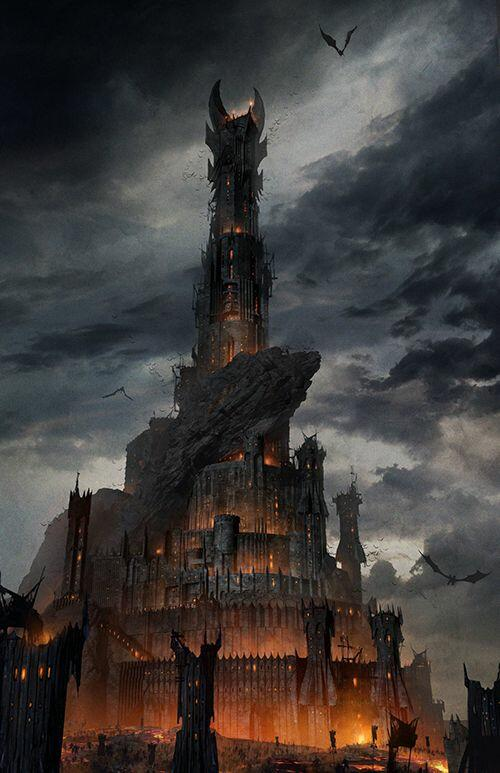
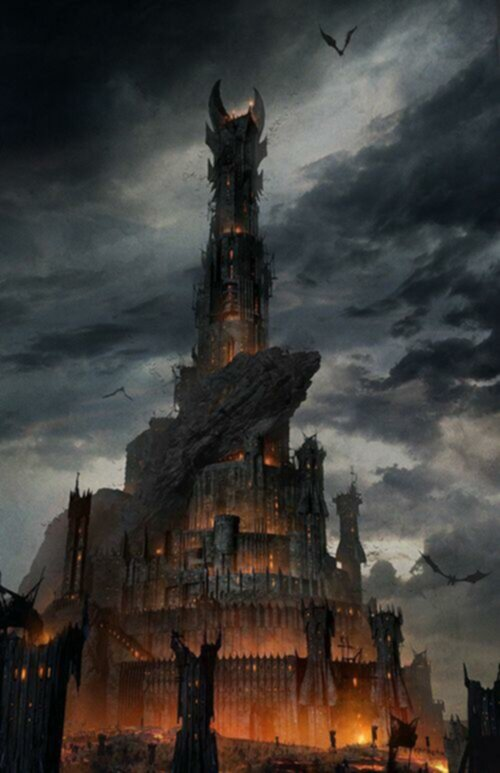
compressing images

diff --git a/index.html b/index.html
@@ -67,7 +67,7 @@
             <div class="destination-list">
                 <div class="box">
                     <div class="image-box">
-                        <img src="images/rivendell.png" alt="rivendell" class="fit-background">
+                        <img src="images/rivendell.jpg" alt="rivendell" class="fit-background">
                     </div>
                     <div class="info">
                         <h2>Imladris<br><span>Rivendell</span></h2>
